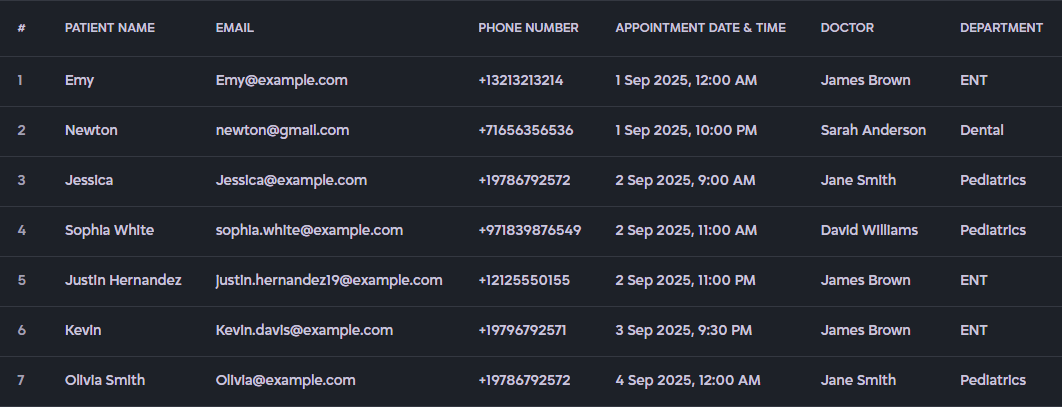
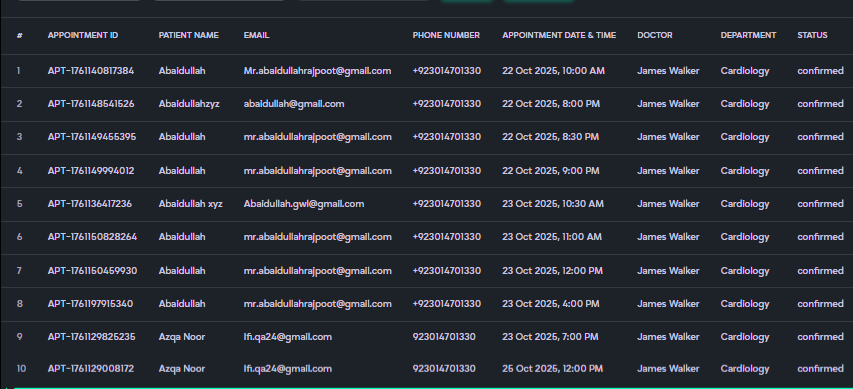
Ss and ontent changed

diff --git a/src/app/content/page.jsx b/src/app/content/page.jsx
@@ -981,7 +981,20 @@ const page = () => {
               <div className="intero">
                 <h1>Appointments</h1>
                 <p className="popins-data-helpex">
-                  The <strong>Appointments</strong> section provides a comprehensive view of all scheduled bookings in one place. It allows you to quickly <strong>view, search,</strong> and <strong>track</strong> appointment details, including the <strong>Appointment ID, department, doctor’s name, appointment creation date and time, appointment date and time,</strong> and <strong>patient information</strong> such as name, phone number, and email. You can also monitor the status of each appointment, whether it’s confirmed, completed, or canceled. This section ensures that all appointments remain well-organized, easily accessible, and efficiently managed for smooth clinic operations.
+                  The <strong>Appointments</strong> section provides a
+                  comprehensive view of all scheduled bookings in one place. It
+                  allows you to quickly <strong>view, search,</strong> and{" "}
+                  <strong>track</strong> appointment details, including the{" "}
+                  <strong>
+                    Appointment ID, department, doctor’s name, appointment
+                    creation date and time, appointment date and time,
+                  </strong>{" "}
+                  and <strong>patient information</strong> such as name, phone
+                  number, and email. You can also monitor the status of each
+                  appointment, whether it’s confirmed, completed, or canceled.
+                  This section ensures that all appointments remain
+                  well-organized, easily accessible, and efficiently managed for
+                  smooth clinic operations.
                   <strong>
                     department, doctor’s name, appointment date and time,
                   </strong>{" "}
@@ -1079,7 +1092,9 @@ const page = () => {
                     </p>
                     <ul className="lists ">
                       <li>
-                        <strong>Appointment Details:</strong>  View all booked appointments in a single, organized interface, each displayed with a unique Appointment ID.
+                        <strong>Appointment Details:</strong> View all booked
+                        appointments in a single, organized interface, each
+                        displayed with a unique Appointment ID.
                       </li>
                       <li>
                         <strong>Patient Information:</strong> Includes Name,
@@ -1158,7 +1173,9 @@ const page = () => {
                         </p>
                         <ul className="lists steps">
                           <li data-target="12" className="cursor-pointer">
-                            Open the Appointments section to view all booked appointments in a single list, each displayed with its unique Appointment ID.
+                            Open the Appointments section to view all booked
+                            appointments in a single list, each displayed with
+                            its unique Appointment ID.
                             <div>
                               <img
                                 className="mobile-step-img"
@@ -2713,11 +2730,11 @@ const page = () => {
                   <p>
                     Displays{" "}
                     <strong>
-                      Serial Number (#), Patient Name, Email, Phone Number,
-                      Appointment Date & Time, Doctor, Department, Status, Call
-                      Info,
+                      Serial Number (#), Appointment ID, Patient Name, Email,
+                      Phone Number, Appointment Date & Time, Doctor, Department,
+                      Status, Call Info,
                     </strong>{" "}
-                    and <strong>Contact</strong> options for easy referenc
+                    and <strong>Contact</strong> options for easy reference.
                   </p>
                   <ul className="lists">
                     <li>
@@ -2847,14 +2864,7 @@ const page = () => {
                           </div>
                         </li>
                         <li data-target="6" className="cursor-pointer">
-                          Review key details such as{" "}
-                          <strong>Serial Number (#)</strong>,{" "}
-                          <strong>Patient Name</strong>, <strong>Email</strong>,{" "}
-                          <strong>Phone Number</strong>,
-                          <strong>Appointment Date & Time</strong>,{" "}
-                          <strong>Doctor</strong>,<strong>Department</strong>,
-                          and <strong>Status</strong> (Confirmed, Completed, or
-                          Canceled)
+                          Review key details such as <strong>Serial Number (#), Appointment ID, Patient Name, Email, Phone Number,Appointment Date & Time, Doctor,Department,</strong> and <strong>Status</strong> (Confirmed, Completed, or Canceled).
                           <div>
                             <img
                               src="assets/image/content/report-6.PNG"

diff --git a/src/app/page.js b/src/app/page.js
@@ -800,11 +800,7 @@ export default function Home() {
                     </li>
                     <li>
                       <strong>System Settings:</strong>
-                      This section allows access to essential system
-                      configurations, such as WhatsApp integration, automated
-                      appointment reminders via cron jobs, and logo
-                      customization — providing a smooth, branded, and fully
-                      tailored user experience.
+                      This section provides access to all essential system configurations. You can manage notification intervals (deciding which notifications are sent and when), set up WhatsApp configuration for automated appointment messages and reminders through cron jobs (automating reminders, notifications, etc.), configure email settings to send system emails directly from your own address, and customize the system logo for providing a smooth user experience.
                     </li>
                     <li>
                       <strong>Profile Menu:</strong>
